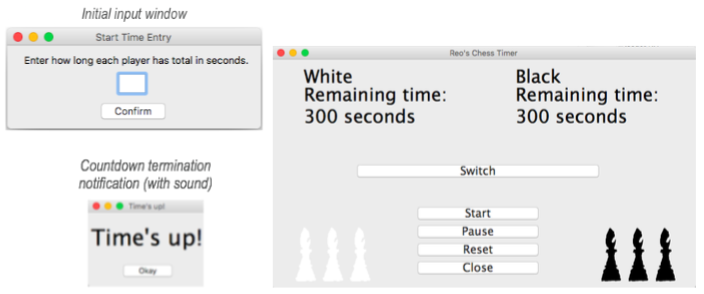
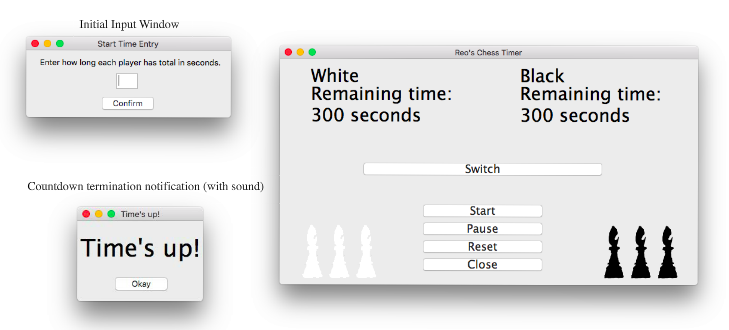
improved images in README.md

diff --git a/README.md b/README.md
@@ -39,7 +39,7 @@
 
 ## About The Project
 <p align="left">
-  <img src="images/demo_screenshot0.png" width="600" height="260">
+  <img src="images/demo_screenshot0.png" width="729" height="330">
 </p>
 
 ### Built With
